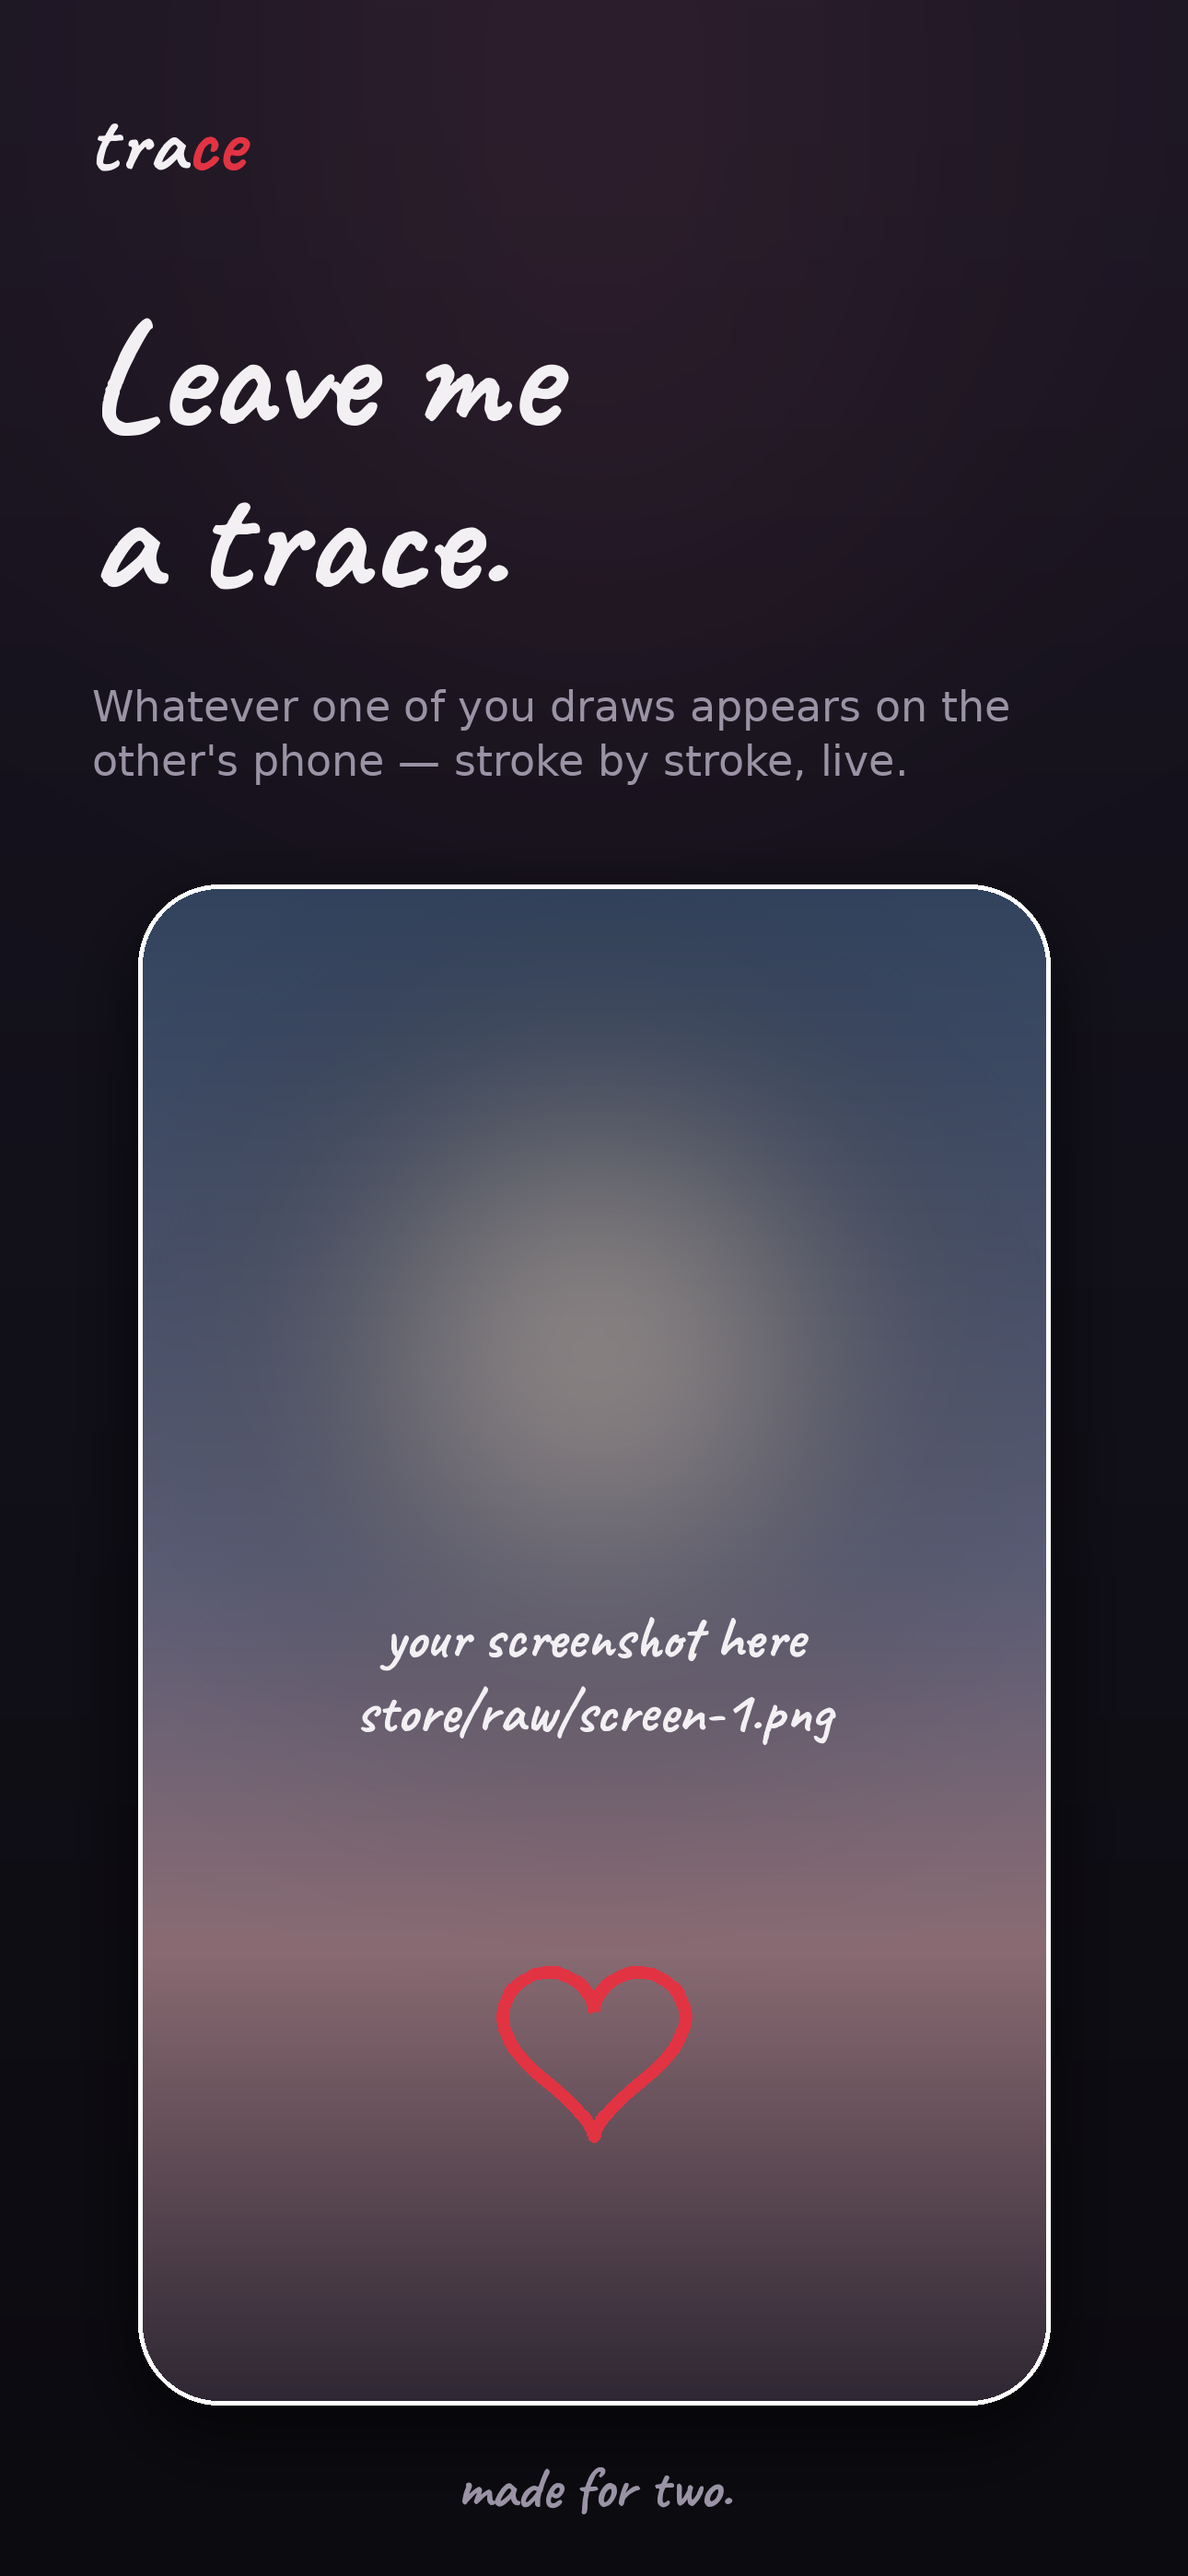
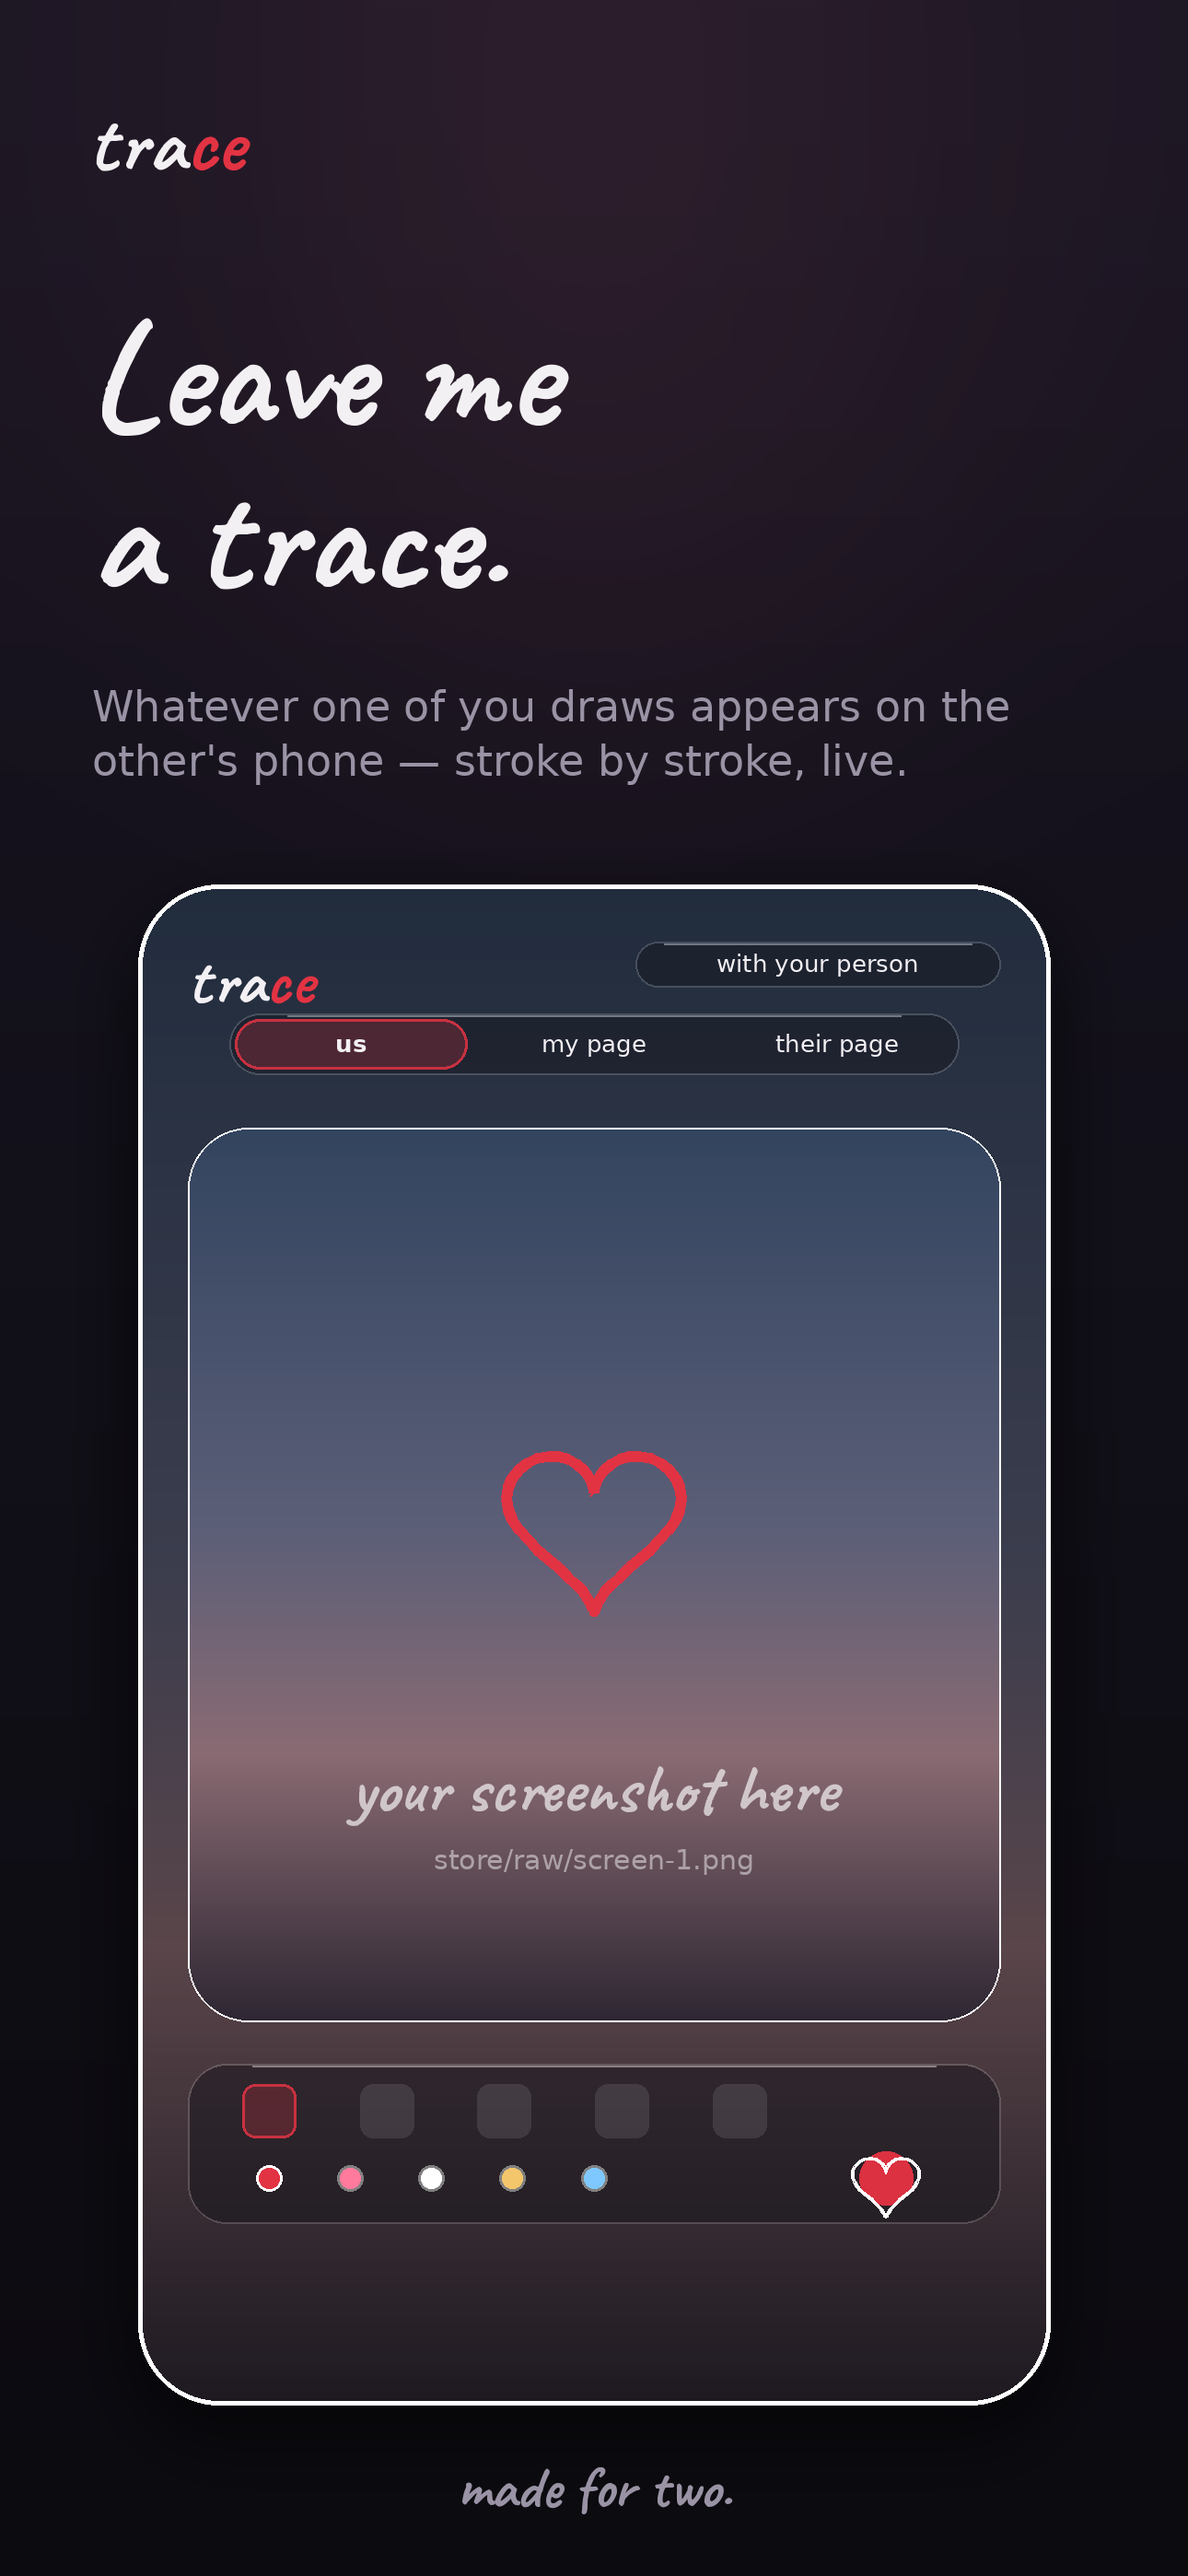
fix: store screenshots depicted a UI that no longer exists
The placeholder frames still drew the old canvas — a sun-lit board with a
heart and no chrome — after the immersive redesign replaced it. They're
what someone sees if they open store/out/, and they were describing an
app that hasn't existed for several commits.

The placeholder now mirrors the real thing: full-bleed dimmed sky, the
floating 1/1.1 board, one glass strip holding the us / my page / their
page tabs with the active one washed in ink, and the dock with its brush
wells, ink swatches and the solid heart. It still says "your screenshot
here" — these stand in for captures, they don't replace them.

Caught while checking my own output: PIL's ImageDraw writes alpha rather
than blending it, so every translucent fill (the active tab, the brush
wells) rendered as a solid block. They're composited through a layer now,
which is what makes them read as glass.

Claude-Session: https://claude.ai/code/session_01QyuN8kyLwsb3bqvEKSu5Gm

Changed region(s): [[0.093, 0.3423, 0.8992, 0.9024]]

diff --git a/tools/make_store_frames.py b/tools/make_store_frames.py
@@ -130,18 +130,103 @@ def heart_points(cx: int, cy: int, scale: float, steps: int = 60) -> list[tuple[
     return pts
 
 
+def _glass(img: Image.Image, box, radius: int, alpha: int = 110) -> None:
+    """A frosted pill/bar: translucent fill, hairline rim, lit top edge."""
+    layer = Image.new("RGBA", img.size, (0, 0, 0, 0))
+    d = ImageDraw.Draw(layer)
+    d.rounded_rectangle(box, radius, fill=(20, 19, 26, alpha), outline=(255, 255, 255, 40), width=2)
+    x0, y0, x1, y1 = box
+    inset = int((x1 - x0) * 0.08)
+    d.line([(x0 + inset, y0 + 2), (x1 - inset, y0 + 2)], fill=(255, 255, 255, 90), width=2)
+    img.alpha_composite(layer)
+
+
 def placeholder_screen(size: tuple[int, int], n: int) -> Image.Image:
+    """A mock of the real app: full-bleed sky, floating board, glass chrome.
+
+    These are placeholders until real captures land in store/raw/, so they must
+    at least look like the app they're standing in for.
+    """
+    w, h = size
+    # the sky fills the screen and sits back behind the board
     img = board_gradient(size).convert("RGBA")
-    img.alpha_composite(glow_spot(size, (size[0] // 2, int(size[1] * 0.30)), size[0] // 3, (247, 217, 176), 120))
+    img.alpha_composite(Image.new("RGBA", size, (0, 0, 0, 90)))
     d = ImageDraw.Draw(img)
-    f = caveat(64)
-    msg = f"your screenshot here\nstore/raw/screen-{n}.png"
-    d.multiline_text((size[0] // 2, int(size[1] * 0.52)), msg, font=f, fill=TEXT + (200,), anchor="mm", align="center", spacing=14)
-    # a hand-drawn heart so the placeholder still reads as Trace
-    d.line(
-        heart_points(size[0] // 2, int(size[1] * 0.76), size[0] / 160),
-        fill=INK + (220,), width=14, joint="curve",
-    )
+
+    pad = int(w * 0.055)
+    # top row: wordmark + a "with …" glass chip
+    wordmark(d, (pad, int(h * 0.035)), int(w * 0.075))
+    chip_w, chip_h = int(w * 0.40), int(h * 0.030)
+    _glass(img, [w - pad - chip_w, int(h * 0.038), w - pad, int(h * 0.038) + chip_h], chip_h // 2)
+    d = ImageDraw.Draw(img)
+    d.text((w - pad - chip_w // 2, int(h * 0.038) + chip_h // 2), "with your person",
+           font=ui_font(int(h * 0.016)), fill=TEXT + (230,), anchor="mm")
+
+    # tab strip: one piece of glass holding three pills, the active one filled
+    tabs = ["us", "my page", "their page"]
+    ty = int(h * 0.085)
+    th = int(h * 0.040)
+    tw = int(w * 0.80)
+    tx = (w - tw) // 2
+    _glass(img, [tx, ty, tx + tw, ty + th], th // 2)
+    d = ImageDraw.Draw(img)
+    seg = tw // 3
+    ov = Image.new("RGBA", size, (0, 0, 0, 0))
+    od = ImageDraw.Draw(ov)
+    od.rounded_rectangle([tx + 6, ty + 6, tx + seg - 6, ty + th - 6], (th - 12) // 2,
+                         fill=INK + (60,), outline=INK + (220,), width=3)
+    img.alpha_composite(ov)
+    d = ImageDraw.Draw(img)
+    for i, label in enumerate(tabs):
+        cx = tx + seg * i + seg // 2
+        d.text((cx, ty + th // 2), label, font=ui_font(int(h * 0.016), bold=(i == 0)),
+               fill=TEXT + (240,), anchor="mm")
+
+    # the board: undimmed sky, floating, with a drawing on it
+    bw = w - pad * 2
+    bh = int(bw * 1.1)
+    bx, by = pad, int(h * 0.16)
+    board = board_gradient((bw, bh)).convert("RGBA")
+    bd = ImageDraw.Draw(board)
+    bd.line(heart_points(bw // 2, int(bh * 0.44), bw / 150), fill=INK + (225,), width=12, joint="curve")
+    cap = Image.new("RGBA", (bw, bh), (0, 0, 0, 0))
+    cd = ImageDraw.Draw(cap)
+    cd.text((bw // 2, int(bh * 0.74)), "your screenshot here", font=caveat(int(bw * 0.085)),
+            fill=(255, 255, 255, 165), anchor="mm")
+    cd.text((bw // 2, int(bh * 0.82)), f"store/raw/screen-{n}.png", font=ui_font(int(bw * 0.035)),
+            fill=(255, 255, 255, 120), anchor="mm")
+    board.alpha_composite(cap)
+    img.alpha_composite(rounded(board, int(bw * 0.075)), (bx, by))
+    ImageDraw.Draw(img).rounded_rectangle([bx, by, bx + bw, by + bh], int(bw * 0.075),
+                                          outline=(255, 255, 255, 60), width=2)
+
+    # the dock: brushes, inks, and the heart
+    dw = w - pad * 2
+    dh = int(h * 0.105)
+    dx, dy = pad, by + bh + int(h * 0.028)
+    _glass(img, [dx, dy, dx + dw, dy + dh], int(h * 0.026), alpha=125)
+    d = ImageDraw.Draw(img)
+    r = int(dh * 0.17)
+    ov = Image.new("RGBA", size, (0, 0, 0, 0))
+    od = ImageDraw.Draw(ov)
+    for i in range(5):  # brush wells — sunk into the glass, not painted on it
+        cx = dx + int(dw * (0.10 + i * 0.145))
+        cy = dy + int(dh * 0.30)
+        fill = INK + (60,) if i == 0 else (255, 255, 255, 26)
+        outline = INK + (220,) if i == 0 else None
+        od.rounded_rectangle([cx - r, cy - r, cx + r, cy + r], r // 2, fill=fill, outline=outline, width=3)
+    img.alpha_composite(ov)
+    d = ImageDraw.Draw(img)
+    inks = [INK, GLOW, (255, 255, 255), (244, 198, 107), (126, 200, 255)]
+    for i, c in enumerate(inks):  # ink swatches
+        cx = dx + int(dw * (0.10 + i * 0.10))
+        cy = dy + int(dh * 0.72)
+        d.ellipse([cx - r // 2, cy - r // 2, cx + r // 2, cy + r // 2], fill=c + (255,),
+                  outline=(255, 255, 255, 200) if i == 0 else (128, 128, 128, 90), width=3)
+    hx = dx + int(dw * 0.86)
+    hy = dy + int(dh * 0.72)
+    d.ellipse([hx - r, hy - r, hx + r, hy + r], fill=(219, 49, 65, 255))  # inkDeep
+    d.line(heart_points(hx, hy + r // 5, r / 13), fill=(255, 255, 255, 255), width=4, joint="curve")
     return img
 
 

diff --git a/store/README.md b/store/README.md
@@ -3,6 +3,12 @@
 `out/` is store-ready today (with styled placeholders); it gets better the
 moment you drop real captures into `raw/` and rerun the generator.
 
+The placeholder now **mirrors the real app** — full-bleed sky, the floating
+board, glass tab pills and the dock with its red heart — so the frames stand in
+honestly for what a capture will show. They still say "your screenshot here",
+because shipping a mockup as if it were the app is both a rejection risk and a
+bad first impression.
+
 ## What's here
 
 | File | Size | Where it goes |
